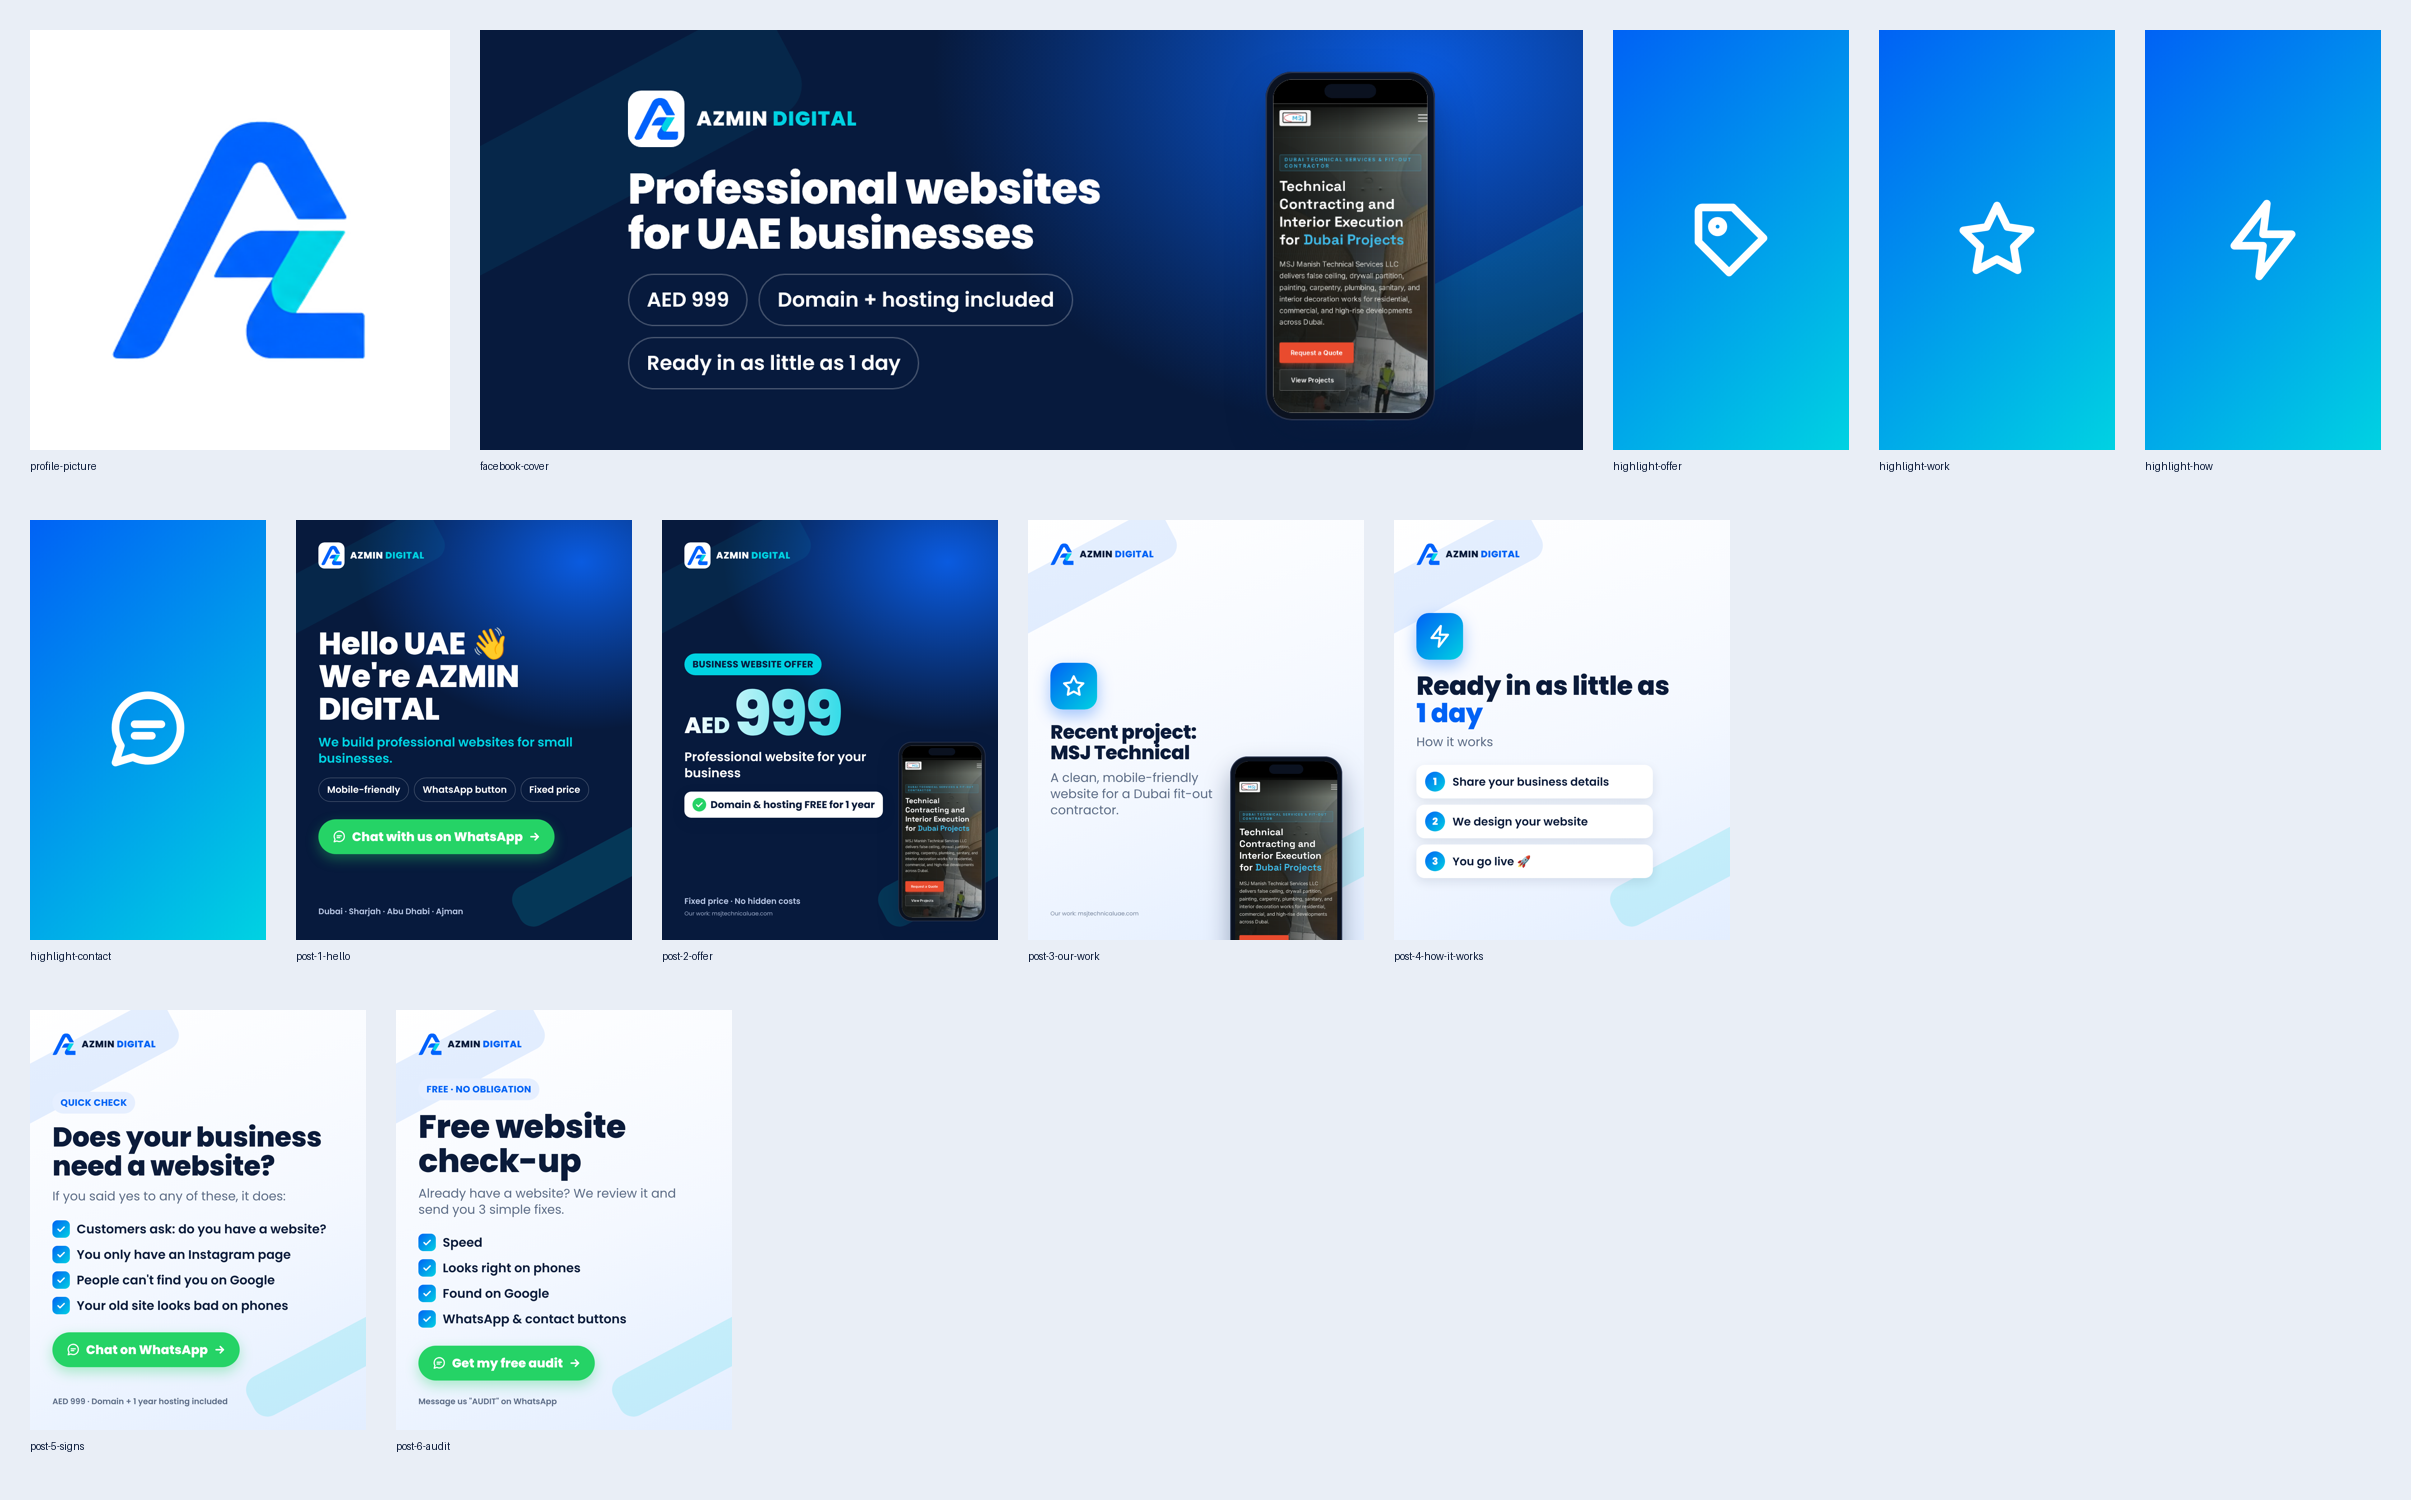
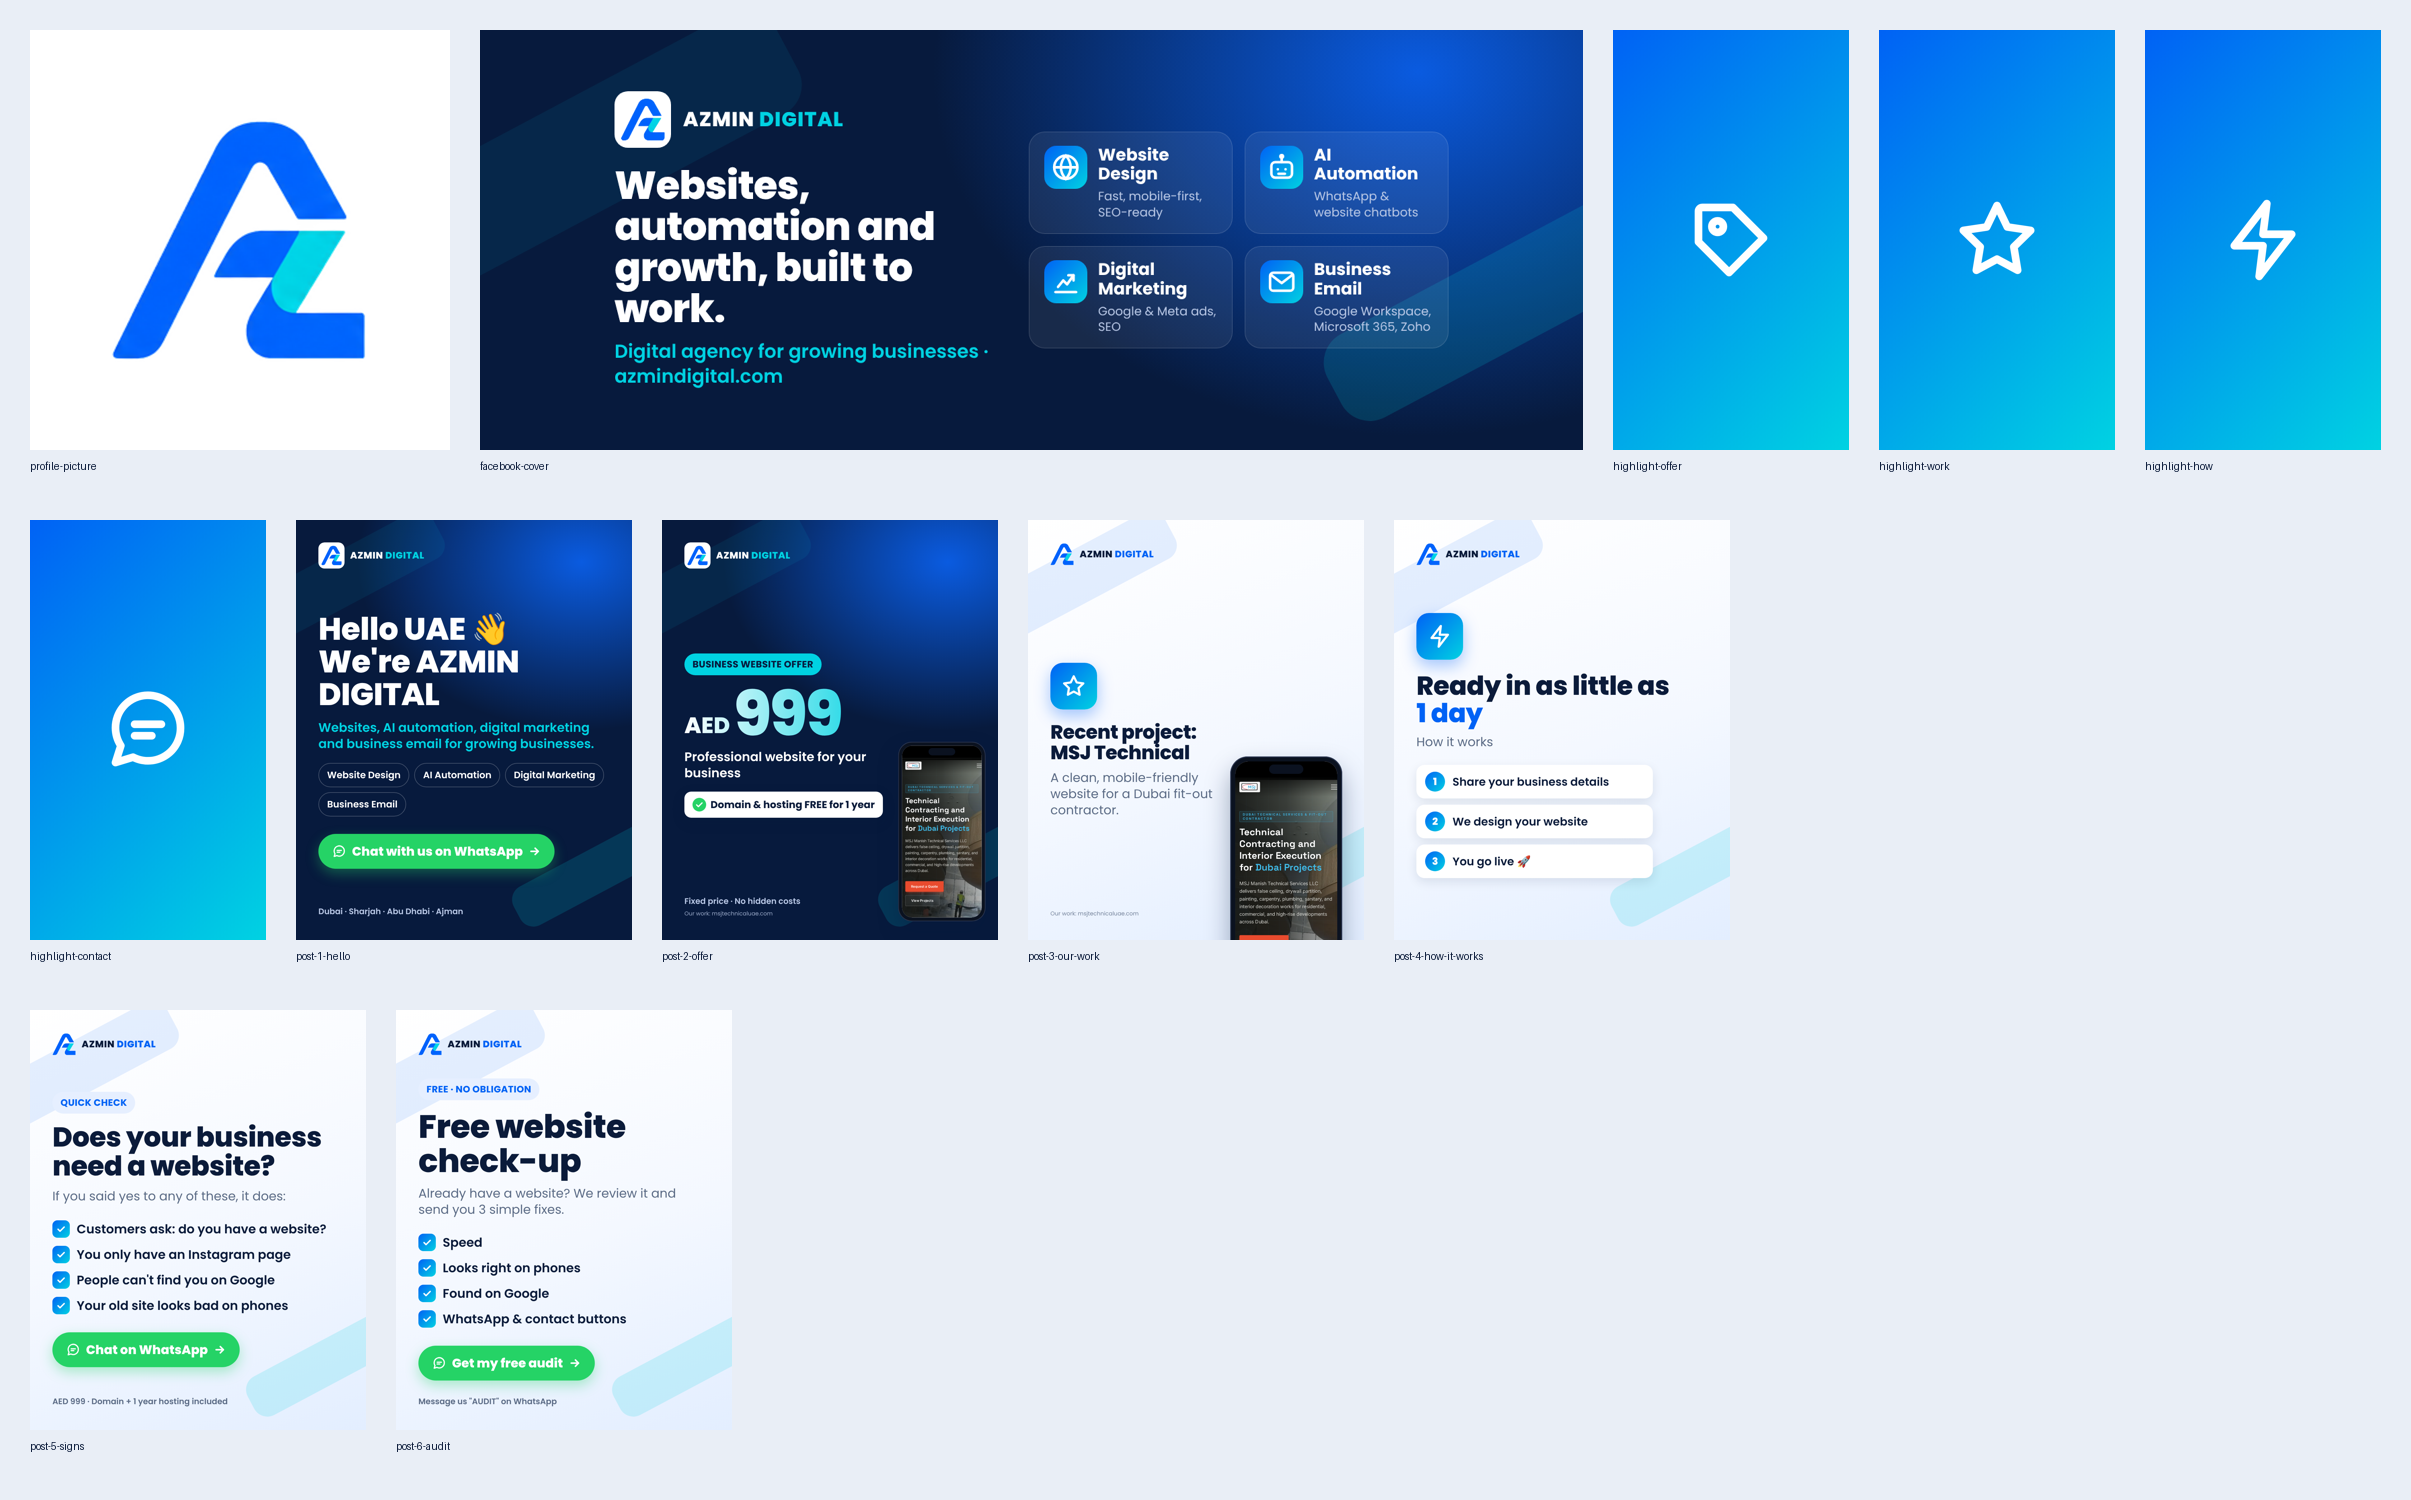
Redesign Facebook cover and intro post for the full agency
Per Jabir and azmindigital.com: AZMIN DIGITAL is a digital agency, not only
a website company. New cover uses the site's headline and shows all four
services (Website Design, AI Automation, Digital Marketing, Business Email);
post 1 and its caption introduce all four.

Claude-Session: https://claude.ai/code/session_01BGEC4PAKqVt3sqxxJW15Vo

Changed region(s): [[0.2489, 0.0307, 0.6221, 0.3067], [0.1244, 0.3987, 0.2489, 0.5827]]

diff --git a/agent/creatives/style.css b/agent/creatives/style.css
@@ -137,3 +137,11 @@ h1 { font-weight: 800; line-height: 1.05; letter-spacing: -1px; }
 .screen img.shot { width: 100%; flex: 1; object-fit: cover; object-position: top; display: block; min-height: 0; }
 .icon-tile.small { width: 110px; height: 110px; border-radius: 30px; }
 .canvas:not(.story) .main { margin-top: 24px; }
+
+.svc-grid { display: grid; grid-template-columns: 1fr 1fr; gap: 18px; width: 640px; }
+.svc { display: flex; gap: 16px; align-items: flex-start; background: rgba(255,255,255,.07); border: 1px solid rgba(255,255,255,.14);
+  border-radius: 24px; padding: 20px 22px; }
+.svc-icon { width: 64px; height: 64px; border-radius: 18px; flex: none; display: grid; place-items: center;
+  background: linear-gradient(135deg, var(--blue), var(--cyan)); }
+.svc-t { font-weight: 700; font-size: 25px; line-height: 1.15; }
+.svc-d { font-size: 18px; color: #B9C8E6; margin-top: 6px; line-height: 1.3; }

diff --git a/agent/creatives/render.py b/agent/creatives/render.py
@@ -33,6 +33,10 @@ ICONS = {
     "search": '<svg viewBox="0 0 24 24" width="{s}" height="{s}" fill="none" stroke="#5B6B85" stroke-width="2.4" stroke-linecap="round"><circle cx="10.5" cy="10.5" r="6.5"/><path d="M15.5 15.5l5 5"/></svg>',
     "tag": '<svg viewBox="0 0 24 24" width="{s}" height="{s}" fill="none" stroke="#fff" stroke-width="2" stroke-linecap="round" stroke-linejoin="round"><path d="M3.5 12.5V4.5a1 1 0 0 1 1-1h8l8 8-9 9-8-8z"/><circle cx="8.5" cy="8.5" r="1.5"/></svg>',
     "star": '<svg viewBox="0 0 24 24" width="{s}" height="{s}" fill="none" stroke="#fff" stroke-width="2" stroke-linejoin="round"><path d="M12 3l2.7 5.6 6.1.9-4.4 4.3 1 6.1L12 17l-5.4 2.9 1-6.1-4.4-4.3 6.1-.9z"/></svg>',
+    "globe": '<svg viewBox="0 0 24 24" width="{s}" height="{s}" fill="none" stroke="#fff" stroke-width="2" stroke-linecap="round"><circle cx="12" cy="12" r="9"/><path d="M3 12h18M12 3c2.5 2.6 3.8 5.6 3.8 9s-1.3 6.4-3.8 9c-2.5-2.6-3.8-5.6-3.8-9S9.5 5.6 12 3z"/></svg>',
+    "bot": '<svg viewBox="0 0 24 24" width="{s}" height="{s}" fill="none" stroke="#fff" stroke-width="2" stroke-linecap="round" stroke-linejoin="round"><rect x="4" y="8" width="16" height="12" rx="3"/><path d="M12 8V4.5M9 13.5h.01M15 13.5h.01M9.5 17h5"/><circle cx="12" cy="3.5" r="1"/></svg>',
+    "chart": '<svg viewBox="0 0 24 24" width="{s}" height="{s}" fill="none" stroke="#fff" stroke-width="2" stroke-linecap="round" stroke-linejoin="round"><path d="M4 20h16"/><path d="M6 16l4-5 3 3 5-7"/><path d="M14 7h4v4"/></svg>',
+    "mail": '<svg viewBox="0 0 24 24" width="{s}" height="{s}" fill="none" stroke="#fff" stroke-width="2" stroke-linecap="round" stroke-linejoin="round"><rect x="3" y="5" width="18" height="14" rx="2.5"/><path d="M3.5 6.5l8.5 6.5 8.5-6.5"/></svg>',
     "arrow": '<svg viewBox="0 0 24 24" width="{s}" height="{s}" fill="none" stroke="#fff" stroke-width="3" stroke-linecap="round" stroke-linejoin="round"><path d="M5 12h14M13 6l6 6-6 6"/></svg>',
     "arrow_left": '<svg viewBox="0 0 24 24" width="{s}" height="{s}" fill="none" stroke="#fff" stroke-width="3" stroke-linecap="round" stroke-linejoin="round"><path d="M19 12H5M11 6l-6 6 6 6"/></svg>',
 }
@@ -244,13 +248,33 @@ def t_cover(c: dict, lang: str, size: str) -> str:
 </div>"""
 
 
+def t_cover_agency(c: dict, lang: str, size: str) -> str:
+    """Facebook cover for the whole agency: headline + the 4 services from azmindigital.com."""
+    tiles = "".join(
+        f'<div class="svc"><div class="svc-icon">{icon(sv["icon"], 46)}</div>'
+        f'<div><div class="svc-t">{esc(sv["title"])}</div><div class="svc-d">{esc(sv["text"])}</div></div></div>'
+        for sv in c["services"]
+    )
+    return f"""
+<div class="canvas dark" style="padding:0 200px; justify-content:center"><div class="shape s1"></div><div class="shape s2"></div>
+  <div style="display:flex; align-items:center; justify-content:space-between; gap:56px; position:relative; z-index:2">
+    <div style="max-width:560px">
+      {brand(True)}
+      <h1 style="font-size:58px; margin-top:26px">{esc(c['title'])}</h1>
+      <div class="sub" style="margin-top:16px; font-size:28px; color:var(--cyan)">{esc(c['sub'])}</div>
+    </div>
+    <div class="svc-grid">{tiles}</div>
+  </div>
+</div>"""
+
+
 def t_highlight(c: dict, lang: str, size: str) -> str:
     """Instagram highlight cover: one icon, centred (shown in a small circle)."""
     return f"""<div class="canvas" style="background:linear-gradient(135deg, var(--blue), var(--cyan)); display:grid; place-items:center; padding:0">
   {icon(c['icon'], 420)}</div>"""
 
 
-TEMPLATES = {"profile": t_profile, "cover": t_cover, "highlight": t_highlight, "price": t_price, "feature": t_feature, "cta": t_cta, "list": t_list, "newbiz": t_newbiz, "scene": t_scene}
+TEMPLATES = {"profile": t_profile, "cover": t_cover, "cover_agency": t_cover_agency, "highlight": t_highlight, "price": t_price, "feature": t_feature, "cta": t_cta, "list": t_list, "newbiz": t_newbiz, "scene": t_scene}
 
 
 def page(c: dict) -> str:

diff --git a/marketing/social/starter-posts.md b/marketing/social/starter-posts.md
@@ -8,9 +8,12 @@ Hashtags to paste at the end of each caption:
 
 ---
 **Post 1 — `post-1-hello.png`**
-Hello UAE 👋 We're AZMIN DIGITAL.
-We build professional, mobile-friendly websites for small businesses in Dubai, Sharjah, Abu Dhabi and Ajman — with a WhatsApp button so customers can reach you in one tap.
-Fixed price. No hidden costs. 💬 Message us on WhatsApp to get started.
+Hello UAE 👋 We're AZMIN DIGITAL — a digital agency for growing businesses.
+🌐 Website Design – fast, mobile-first, SEO-ready
+🤖 AI Automation – WhatsApp & website chatbots, lead follow-up
+📈 Digital Marketing – Google & Meta ads, SEO, social content
+📧 Business Email – Google Workspace, Microsoft 365, Zoho
+One team, one plan, measurable results. 💬 Message us on WhatsApp or visit azmindigital.com
 
 **Post 2 — `post-2-offer.png`**
 Your business website for AED 999 🚀

diff --git a/marketing/social/profile-text.md b/marketing/social/profile-text.md
@@ -56,7 +56,7 @@ Rule: page count, renewal price and custom work → you answer yourself; never g
 - **Category:** Web Designer
 - **Action button:** Send WhatsApp message → your new business number
 - **Profile picture:** `marketing/social/kit-v1/profile-picture.png`
-- **Cover photo:** `marketing/social/kit-v1/facebook-cover.png`
+- **Cover photo:** `marketing/social/kit-v1/facebook-cover.png` (agency cover: all 4 services)
 
 ## Instagram highlights (after you post stories)
 | Highlight name | Cover image | Put these stories in it |
